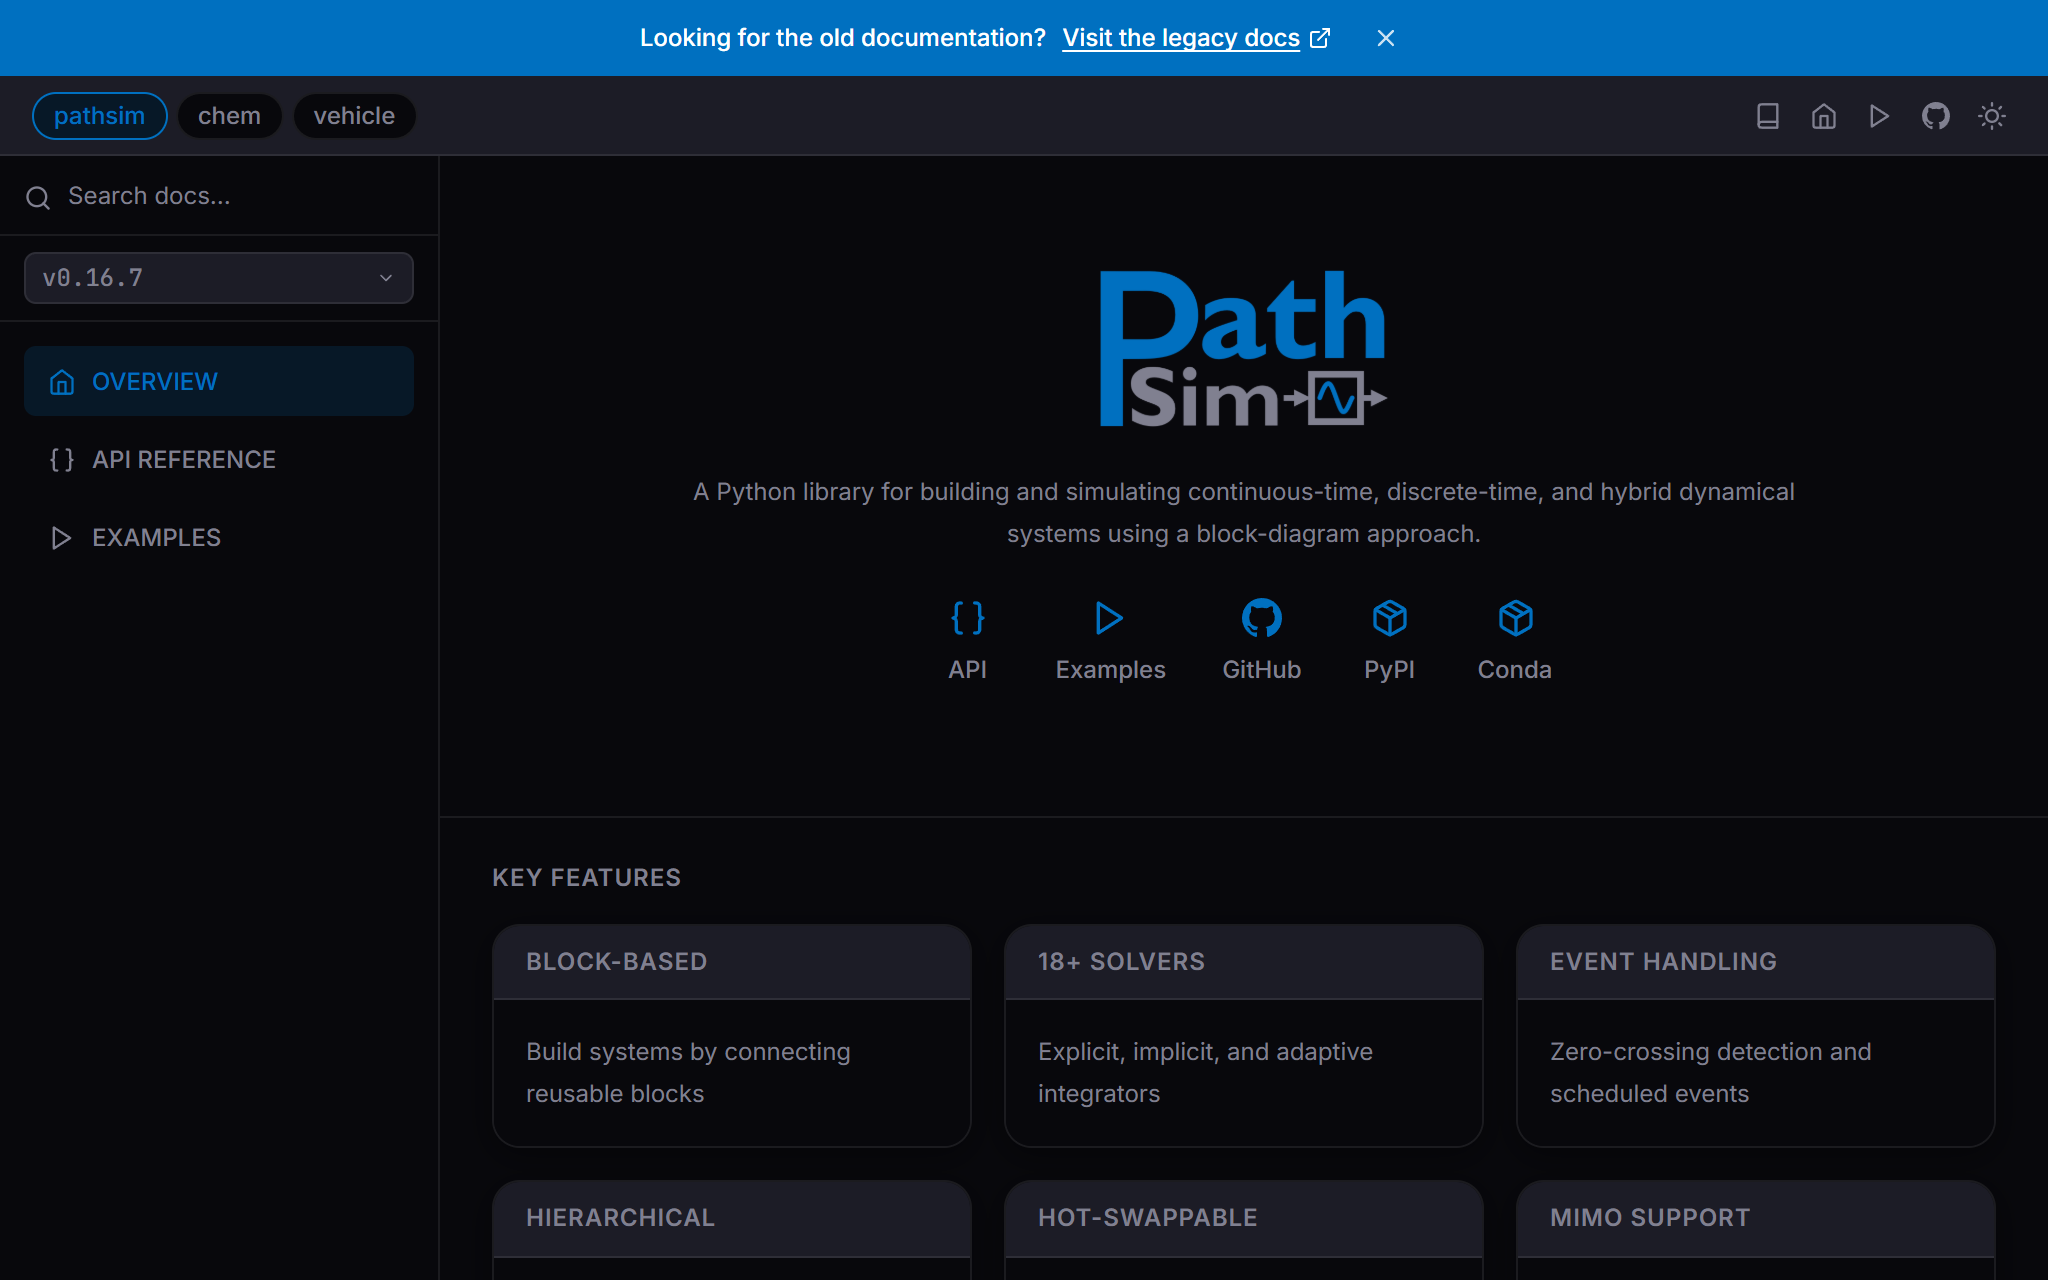
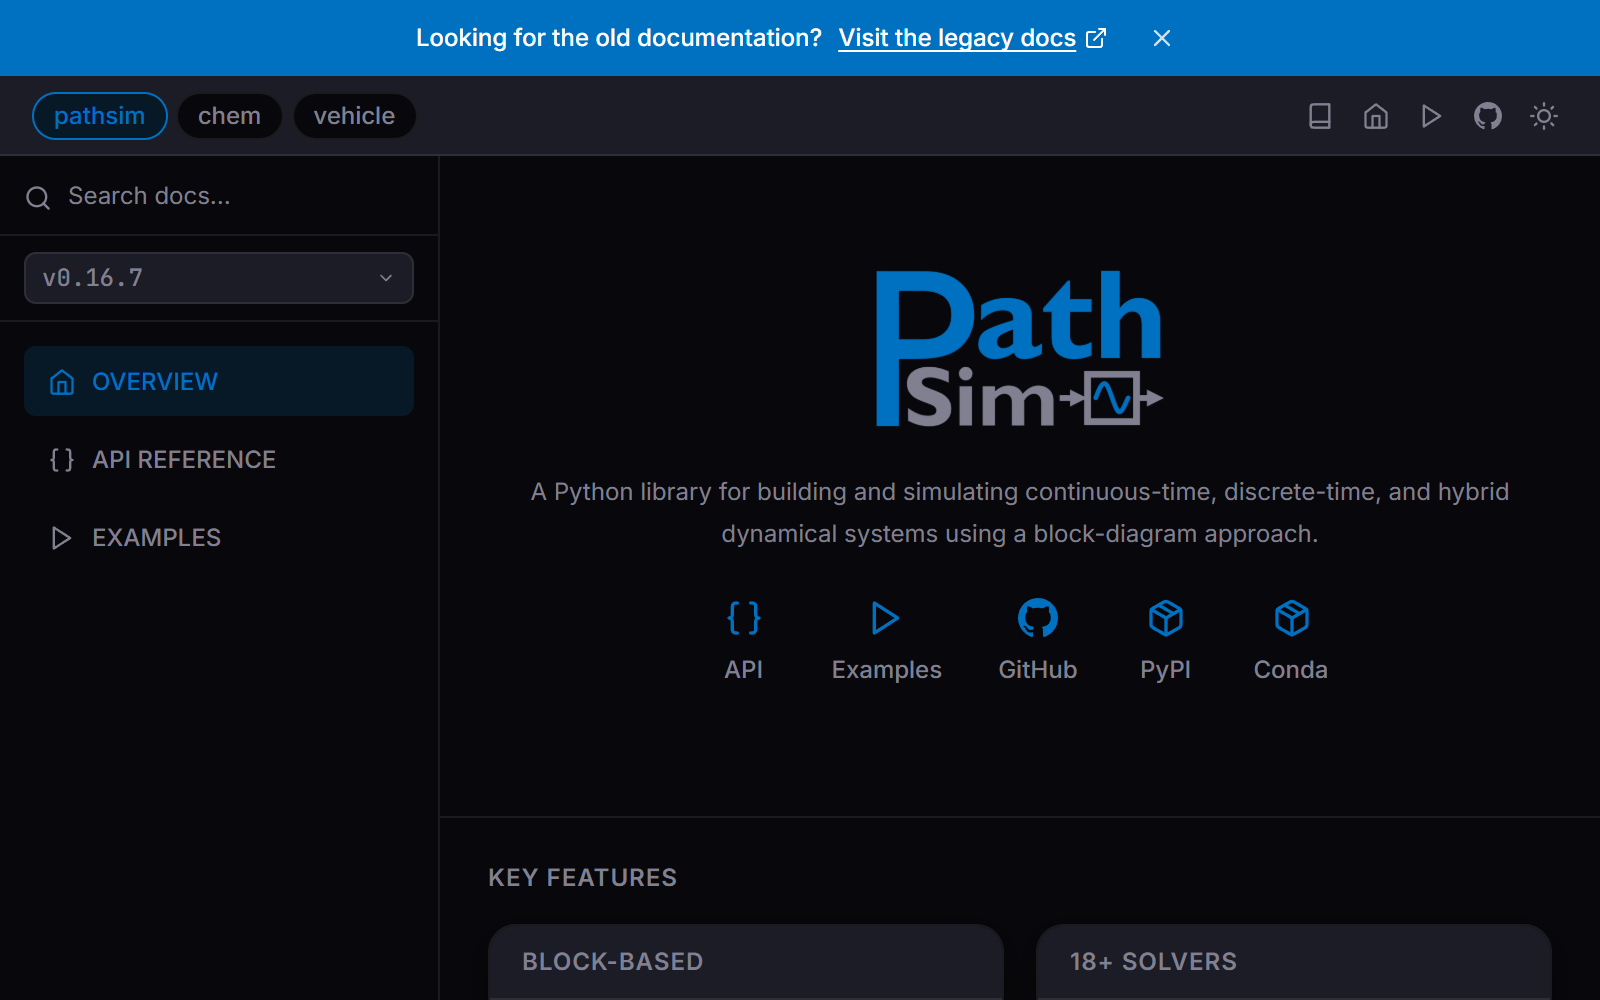
Increase screenshot zoom level (800x500 viewport)

diff --git a/scripts/capture-screenshots.js b/scripts/capture-screenshots.js
@@ -24,8 +24,8 @@ const sites = [
 const themes = ['dark', 'light'];
 
 const viewports = [
-	{ suffix: '', width: 1024, height: 640, label: 'desktop' },
-	{ suffix: '-mobile', width: 320, height: 692, label: 'mobile' }
+	{ suffix: '', width: 800, height: 500, label: 'desktop' },
+	{ suffix: '-mobile', width: 280, height: 600, label: 'mobile' }
 ];
 
 async function captureScreenshot(browser, site, theme, viewport) {
